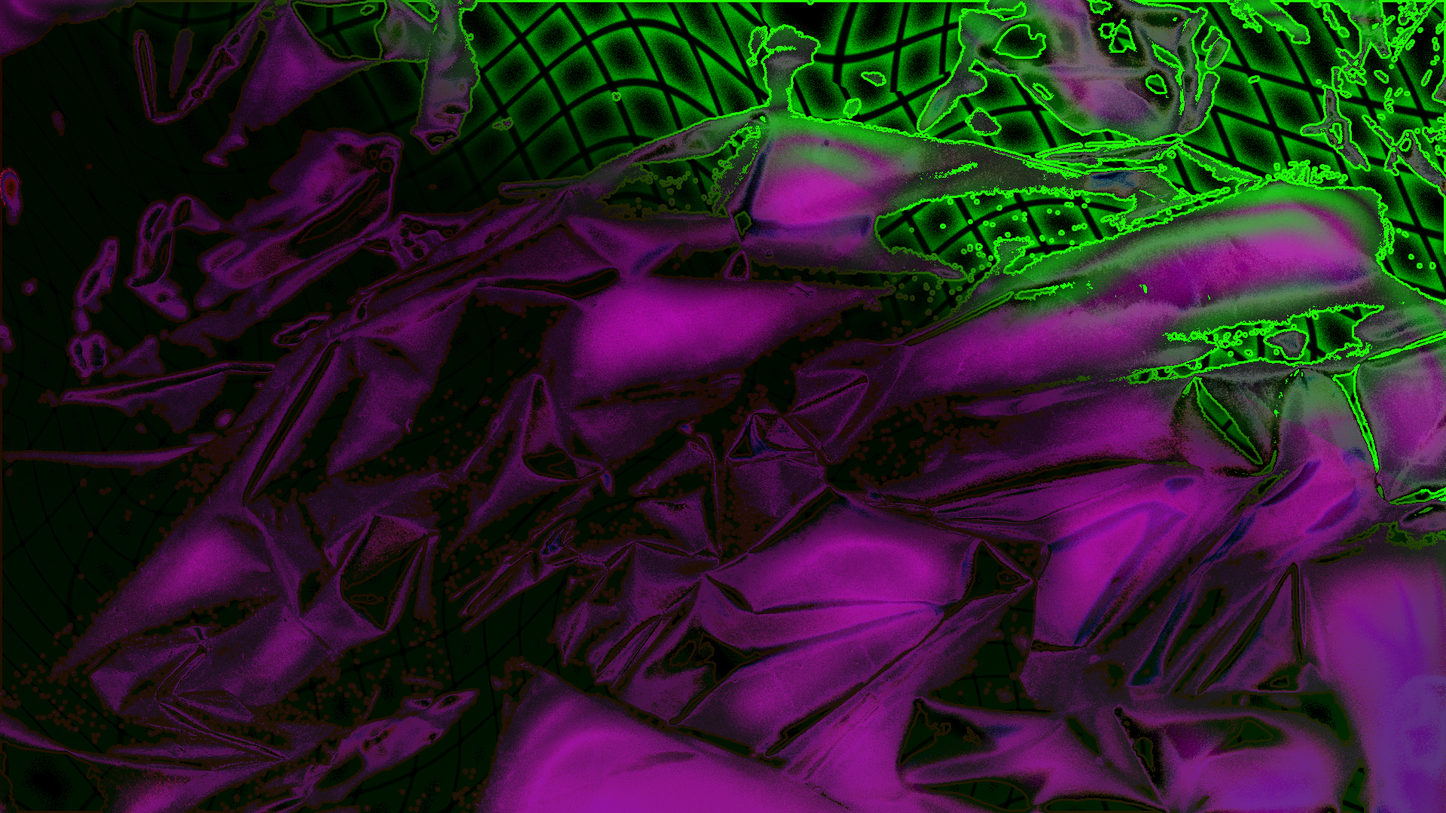
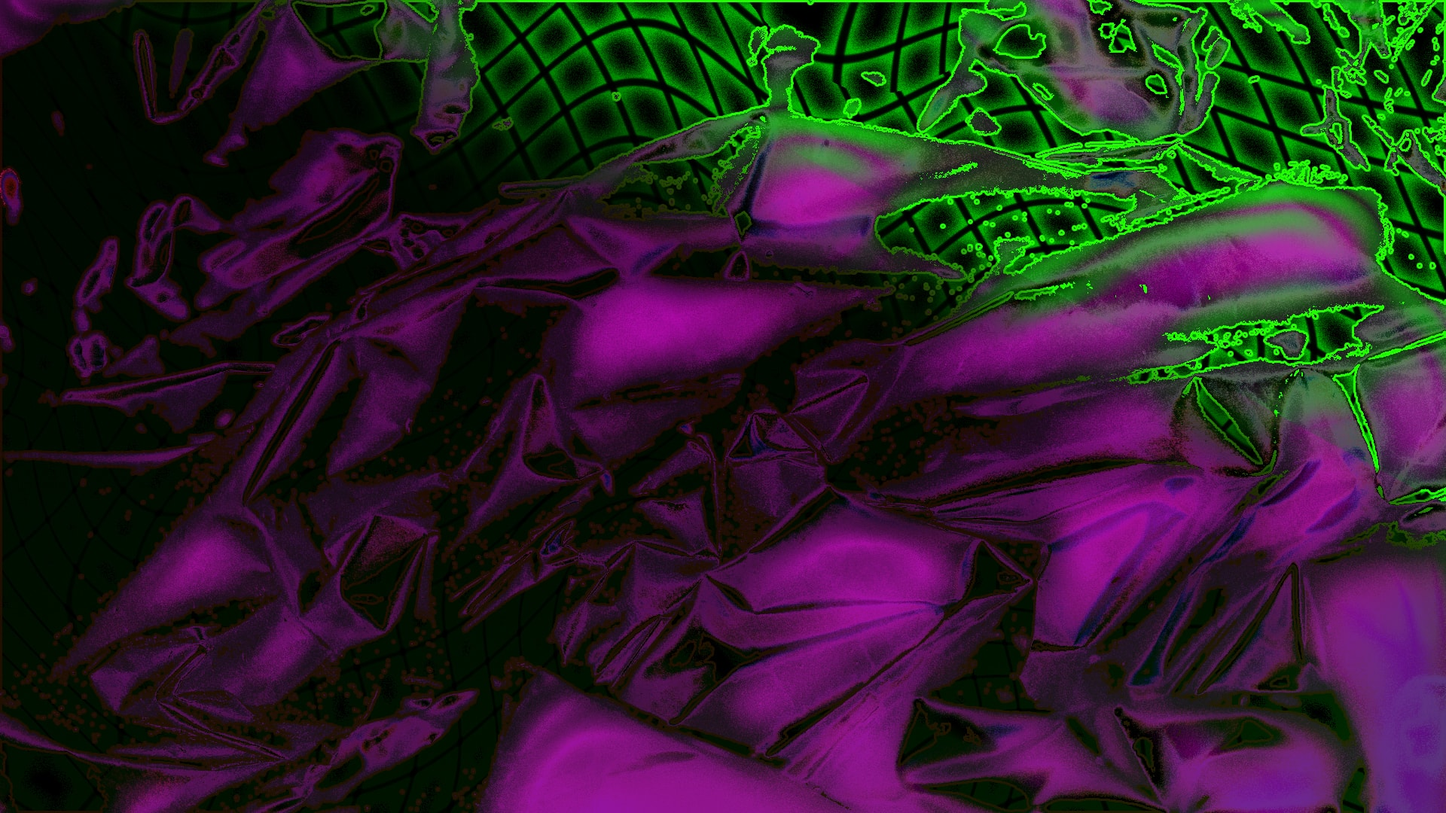
responsive fix

diff --git a/index.html b/index.html
@@ -27,7 +27,7 @@
 
 	<header id="top">Established in December 2022, <em>cool’slaw</em> is an open-source type foundry by students/alumni of Pratt Institute’s <em>Emerging Practices: Typographic Reflex</em> course.</header>
 
-	<div class="module" style="background-image: url(images/background_Lingjiu.png);">
+	<div class="module" style="background-image: url(images/background_Lingjiu.jpg);">
 		<div class="logo"><img src="images/logos/lingjiu-logo.png"></div>
 		<div class="description">
 			<p class="fontname"><span style="font-family: Beetletree2;">Beetletree Bold</span> <span style="font-family: Beetletree1;">/ Regular</span></p>
@@ -108,7 +108,7 @@
 
 
 
-	<div class="module" style="background-image: url(images/jenny-bg.png);">
+	<div class="module" style="background-image: url(images/jenny-bg.jpg);">
 		<div class="logo"><img src="images/logos/jenny-logo.png"></div>
 		<div class="description" style="font-family: MeltedPotato;">
 			<p class="fontname">Melted Potato</p>

diff --git a/style.css b/style.css
@@ -84,7 +84,7 @@ header {
 .module {
 	display: inline-block;
 	width: 94%;
-	height: 85vh;
+	min-height: 85vh;
 	float: left;
 	padding: 3%;
 	background-size: cover;
@@ -102,7 +102,7 @@ header {
 	font-size: 3em;
 	margin-top: 4%;
 	float: left;
-	width: 75%;
+	width: 80%;
 	clear: right;
 	letter-spacing: 0.05px;
 }
@@ -123,6 +123,7 @@ header {
 	width: 62%;
 	font-size: 2em;
 	margin-top: 2%;
+	margin-bottom: 10%;
 	float: left;
 	letter-spacing: 3px;
 }
@@ -191,7 +192,7 @@ a:active {
 
 
 /* RESPONSIVE ----------------------------- */
-@media screen and (max-width:1500px){
+@media screen and (max-width:1400px){
 	.description {
 		font-size: 2.75em;
 	}
